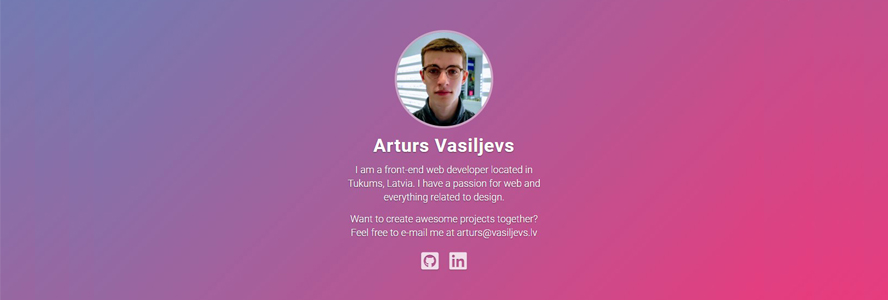
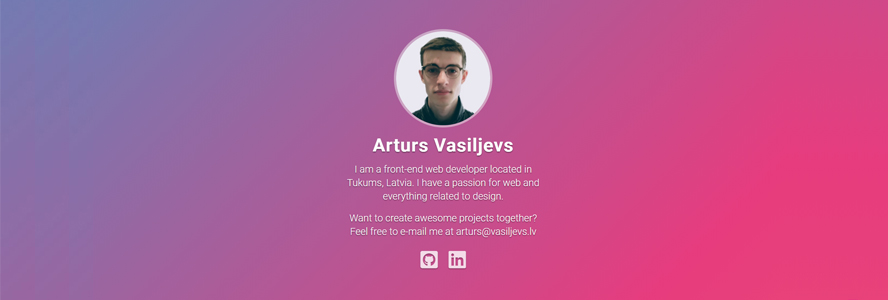
Update - person photo and readme file

diff --git a/css/app.css b/css/app.css
@@ -76,7 +76,7 @@ body, a {
   display: block;
   margin: 0 auto;
   max-width: 11.25rem;
-  border-radius: 100%;
+  border-radius: 50%;
   border: .25rem solid rgba(238,238,238,.5);
 }
 
